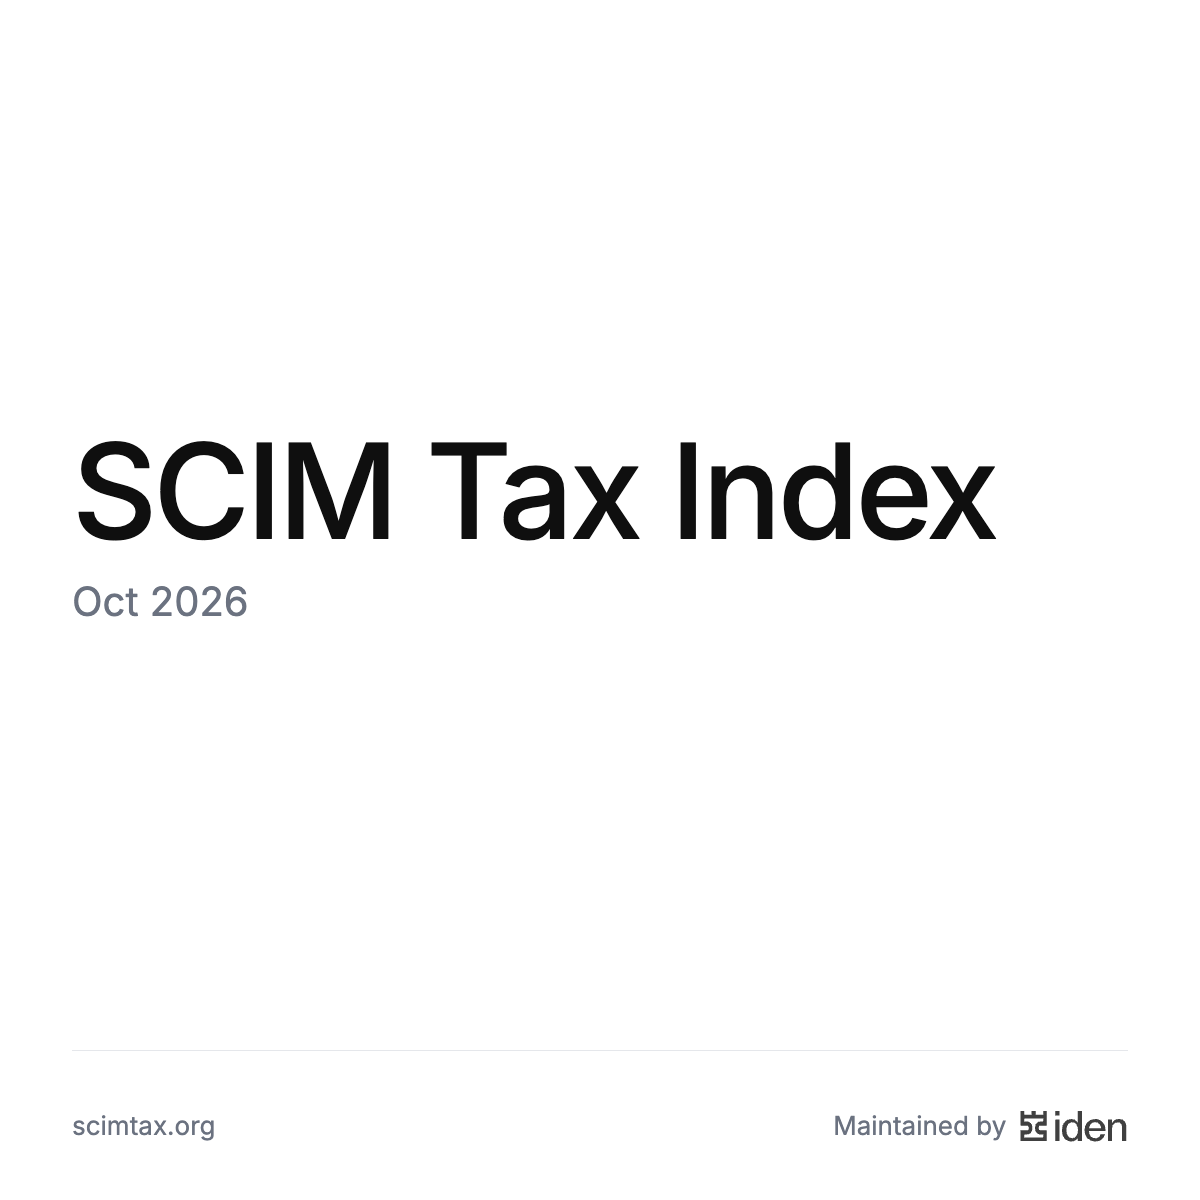
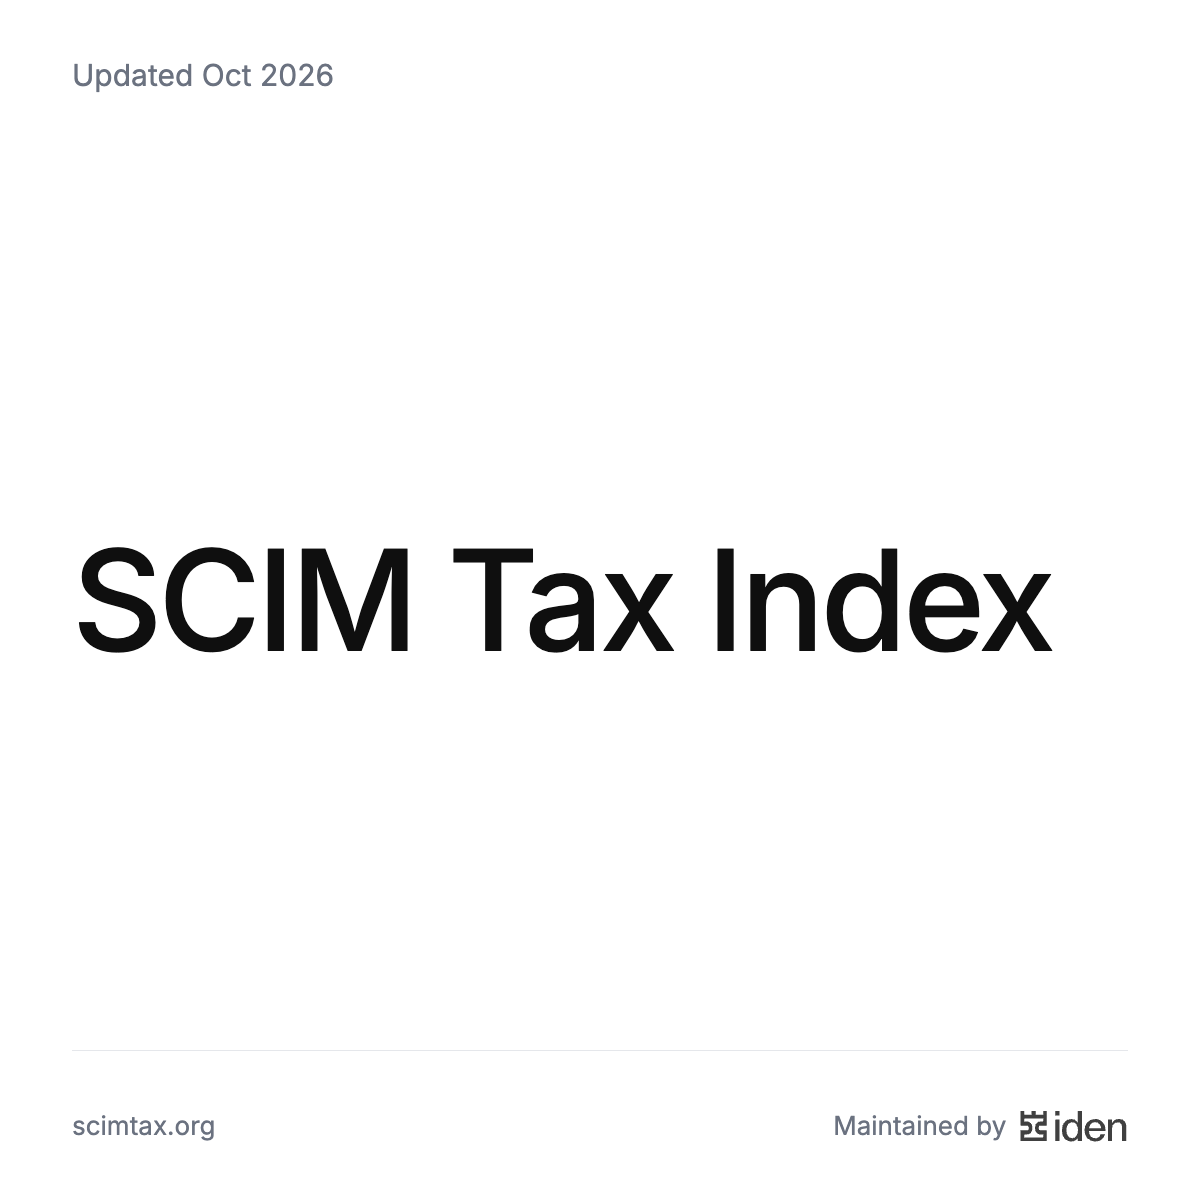
Share images: "Updated Oct 2026" at the top left

Changed region(s): [[0.0617, 0.37, 0.555, 0.555], [0.555, 0.37, 0.8942, 0.555], [0.0617, 0.0308, 0.2775, 0.0925]]

diff --git a/index.html b/index.html
@@ -18,7 +18,7 @@
   <meta property="og:image" content="https://scimtax.org/og.png">
   <meta property="og:image:width" content="1200">
   <meta property="og:image:height" content="630">
-  <meta property="og:image:alt" content="SCIM Tax Index, October 2026. scimtax.org, maintained by Iden.">
+  <meta property="og:image:alt" content="SCIM Tax Index, updated October 2026. scimtax.org, maintained by Iden.">
   <meta name="twitter:card" content="summary_large_image">
   <meta name="twitter:image" content="https://scimtax.org/og.png">
   <meta name="twitter:title" content="The SCIM Tax Index">
